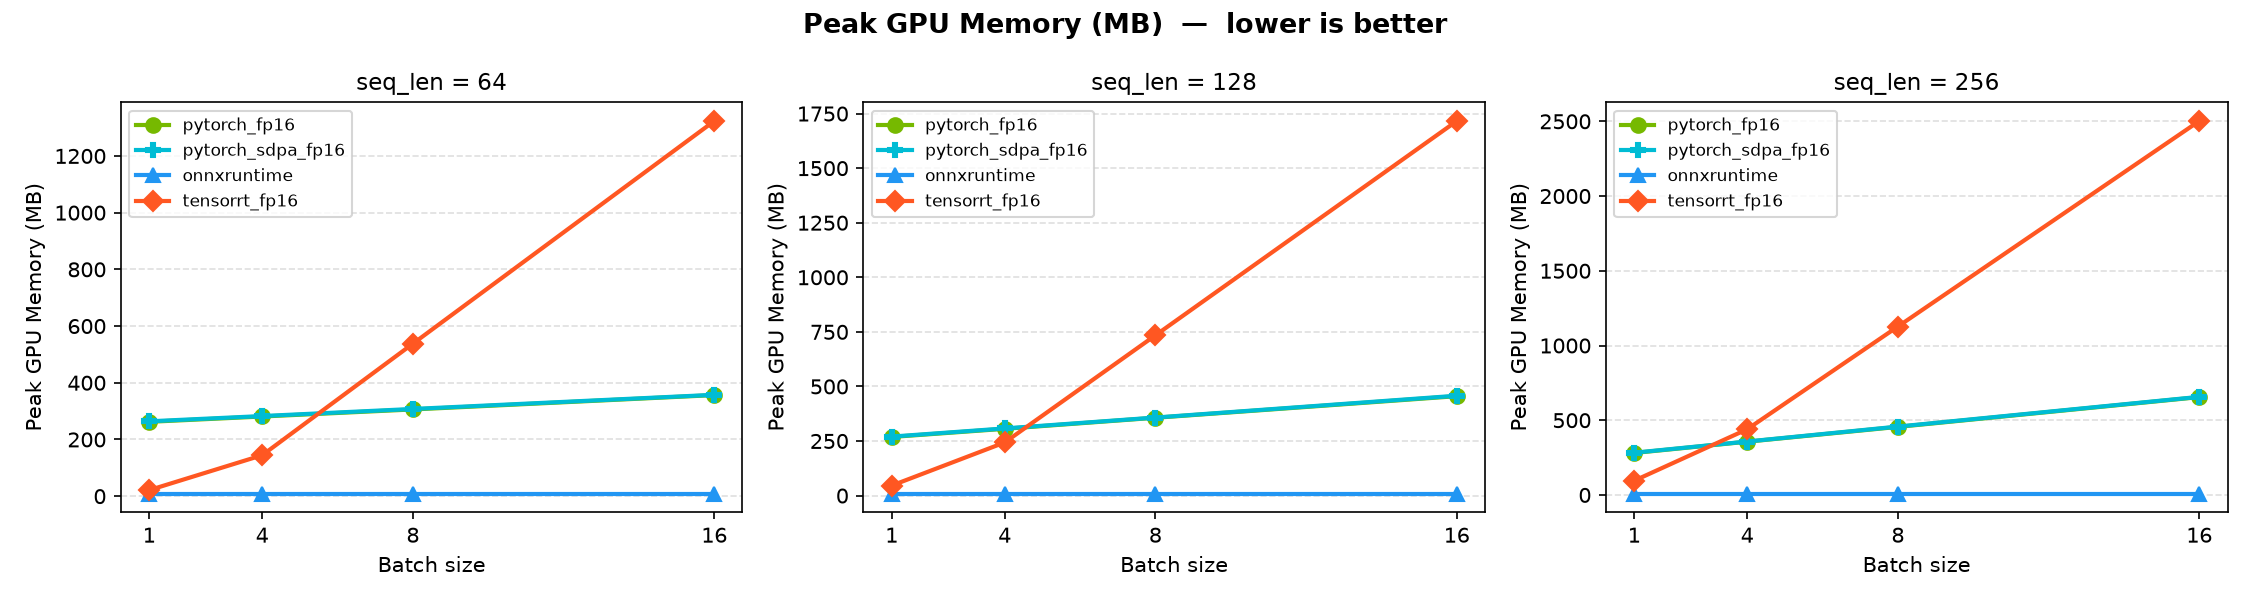
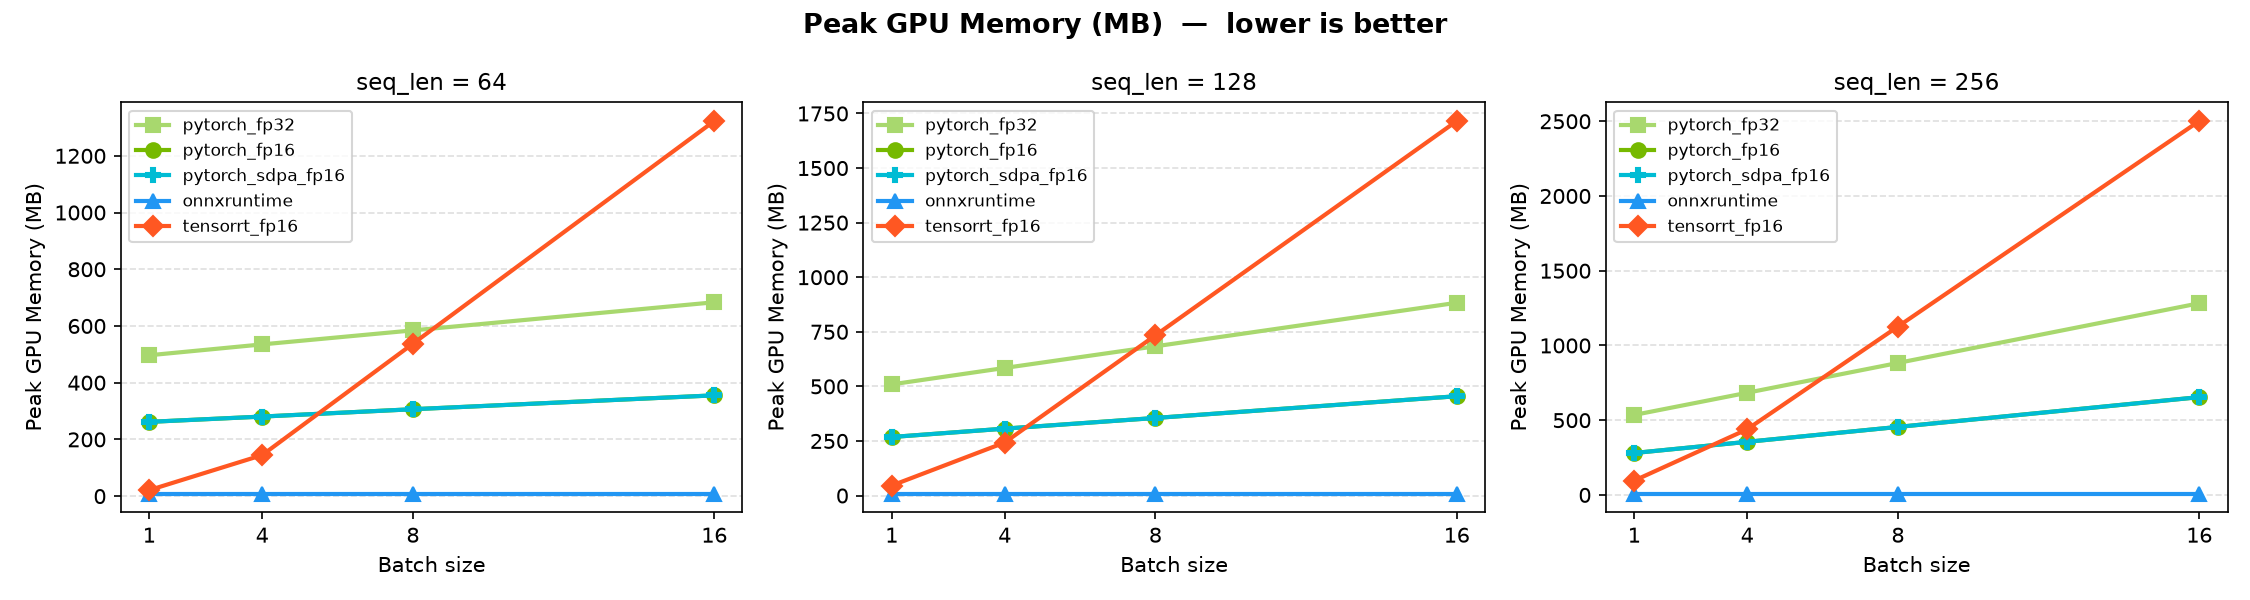
Project 1 - Pytorch FP32

diff --git a/project-1-llm-inference-optimization/src/run_benchmark.py b/project-1-llm-inference-optimization/src/run_benchmark.py
@@ -35,9 +35,9 @@ def parse_args() -> argparse.Namespace:
     p = argparse.ArgumentParser(description="GPT-2 Inference Benchmark")
     p.add_argument(
         "--backends", nargs="+",
-        default=["pytorch", "pytorch_sdpa", "onnx", "tensorrt"],
-        choices=["pytorch", "pytorch_sdpa", "onnx", "tensorrt"],
-        help="Which backends to benchmark (default: all four)",
+        default=["pytorch_fp32", "pytorch", "pytorch_sdpa", "onnx", "tensorrt"],
+        choices=["pytorch_fp32", "pytorch", "pytorch_sdpa", "onnx", "tensorrt"],
+        help="Which backends to benchmark (default: all five)",
     )
     p.add_argument("--batch-sizes", nargs="+", type=int, default=[1, 4, 8, 16])
     p.add_argument("--seq-lens",    nargs="+", type=int, default=[64, 128, 256])
@@ -83,8 +83,15 @@ def main() -> None:
     # ── Benchmarks ───────────────────────────────────────────────────────────
     all_results: list[dict] = []
 
+    if "pytorch_fp32" in args.backends:
+        print("\n=== PyTorch FP32 Benchmark ===")
+        from bench_pytorch import benchmark
+        all_results.extend(
+            benchmark(args.batch_sizes, args.seq_lens, fp16=False, warmup=args.warmup, iterations=args.iterations)
+        )
+
     if "pytorch" in args.backends:
-        print("\n=== PyTorch Benchmark ===")
+        print("\n=== PyTorch FP16 Benchmark ===")
         from bench_pytorch import benchmark
         all_results.extend(
             benchmark(args.batch_sizes, args.seq_lens, args.fp16, args.warmup, args.iterations)

diff --git a/project-1-llm-inference-optimization/README.md b/project-1-llm-inference-optimization/README.md
@@ -25,8 +25,11 @@ Each backend runs a single forward pass (the prefill phase — processing input 
 
 ## Backends
 
+### PyTorch FP32
+The true baseline. GPT-2 loaded in full float32 precision — no casting, no optimizations. Sets the upper bound on latency and memory that every other backend is measured against.
+
 ### PyTorch FP16
-The reference baseline. GPT-2 loaded from HuggingFace, moved to GPU, and cast to `float16`. Inference runs with `torch.no_grad()` and `use_cache=False` to keep the comparison fair (single forward pass, no KV cache).
+Same as FP32 but with `model.half()` — all weight tensors cast to float16, routing compute through the tensor core path. The first optimization step and the reference point for the remaining backends.
 
 ### PyTorch FP16 + SDPA
 Same as the baseline but loaded with `attn_implementation="sdpa"`, which routes every attention layer through `torch.nn.functional.scaled_dot_product_attention`. On Ada hardware PyTorch selects Flash Attention, fusing the full QK^T → softmax → V operation into a single memory-efficient kernel. No model export or compilation needed — it's a drop-in swap over the baseline.

diff --git a/README.md b/README.md
@@ -34,7 +34,8 @@ Benchmark GPT-2 (124M) inference across four backends and measure the real-world
 
 | Backend | Precision | Notes |
 |---|---|---|
-| PyTorch | FP16 | Baseline |
+| PyTorch | FP32 | Baseline |
+| PyTorch | FP16 | Tensor core path |
 | PyTorch + SDPA | FP16 | Flash Attention via `attn_implementation="sdpa"` |
 | ONNX Runtime | FP16 | CUDAExecutionProvider |
 | TensorRT | FP16 | Compiled engine, dynamic batch |